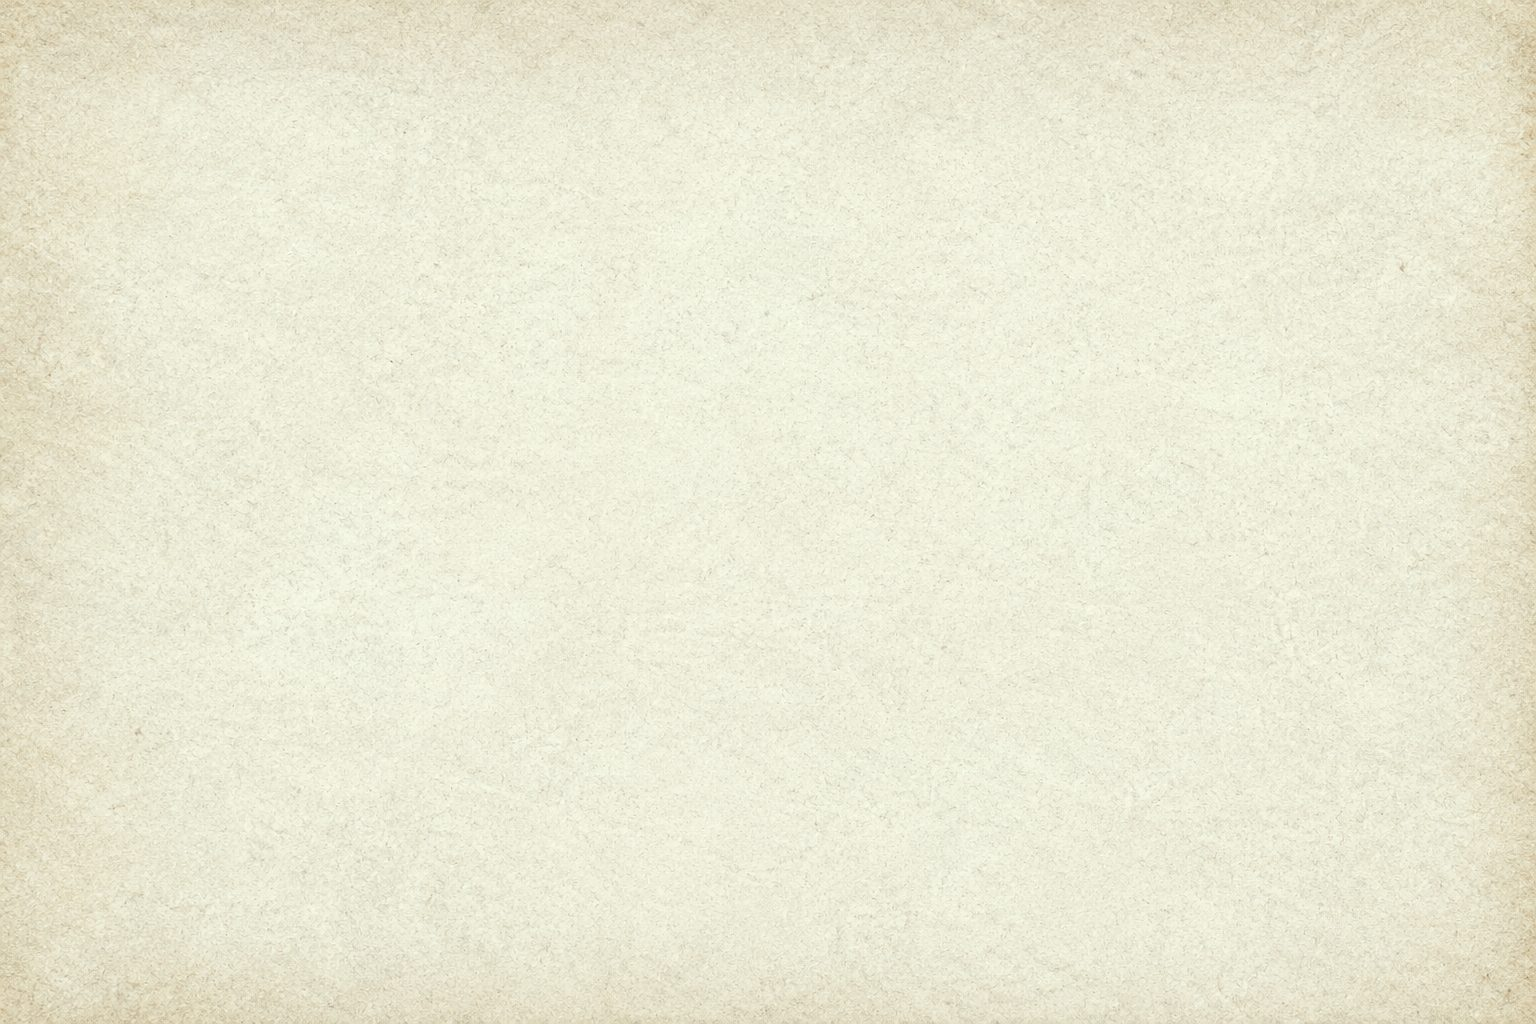
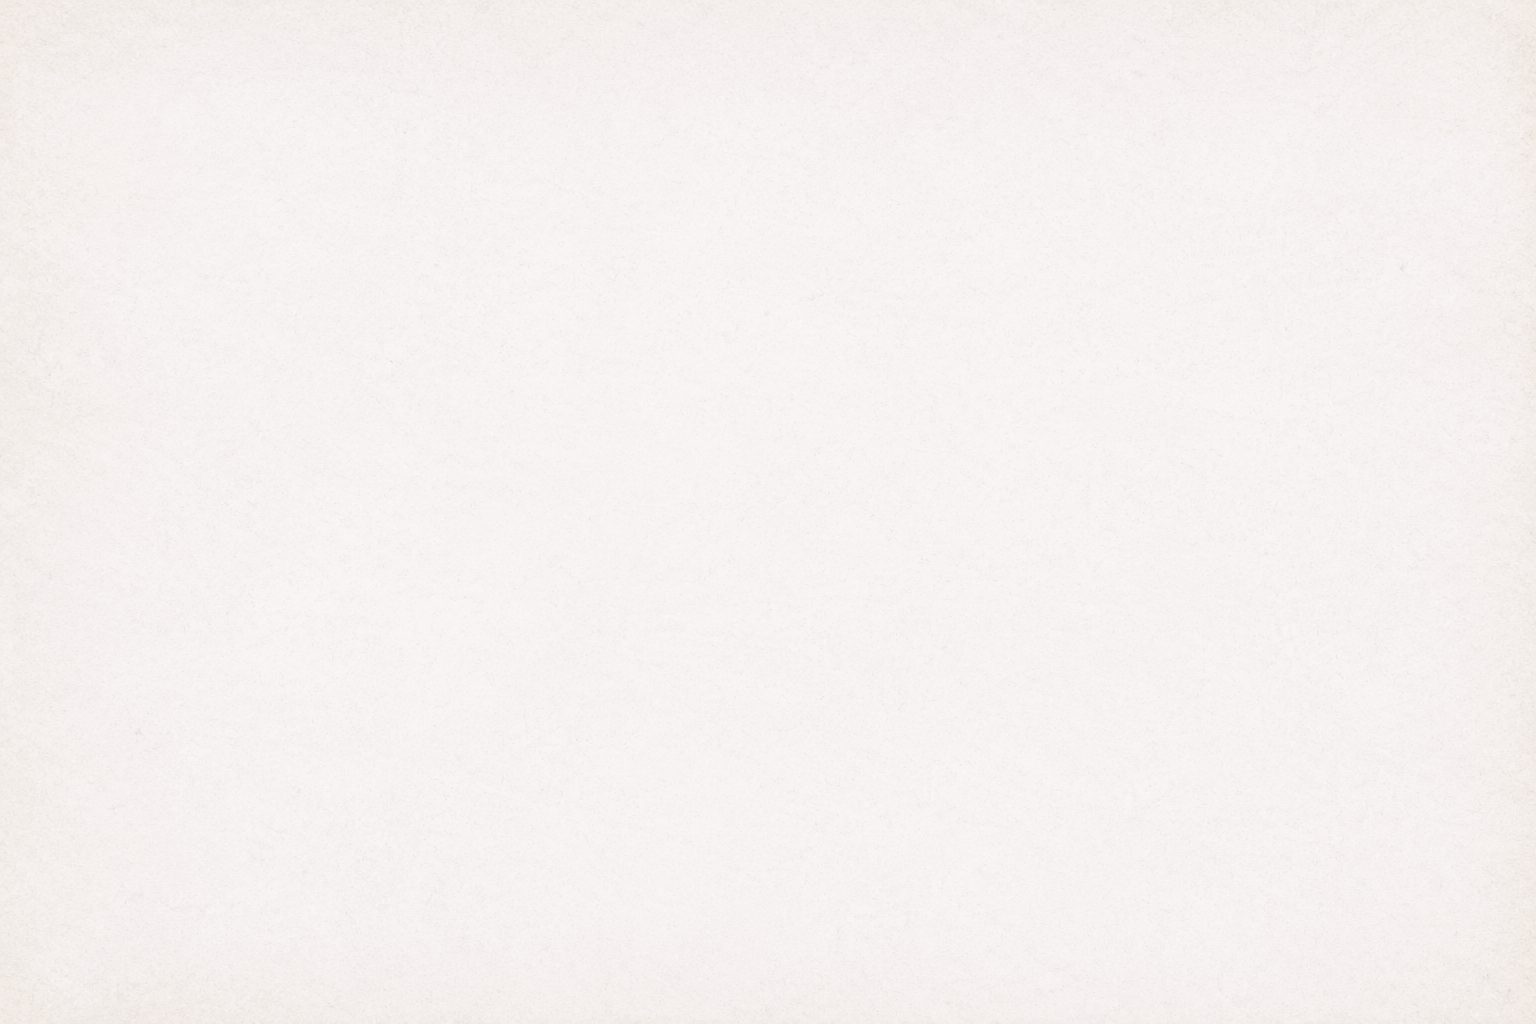
faded
more white

diff --git a/jeffrey-river/css/styles.css b/jeffrey-river/css/styles.css
@@ -21,10 +21,10 @@
   --heading:      #3A302A;   /* Aged leather — same as bark/leather */
 
   /* Backgrounds — clean and crisp */
-  --paper:        #FBFBFA;   /* Main bg — near-white, clean */
+  --paper:        #F6F3F1;   /* Main bg — warm off-white matching parchment */
   --white:        #FFFFFF;
-  --parchment:    #F5F4F2;   /* Subtle off-white for alternating sections */
-  --card-bg:      #FFFFFF;   /* Card backgrounds — true white */
+  --parchment:    #F2EFED;   /* Subtle warm white for sections */
+  --card-bg:      #F8F6F5;   /* Card backgrounds — warm white */
   --charcoal:     #2E2E2A;
   --ash:          #8A8F8C;
 
@@ -235,7 +235,7 @@ p { margin: 0 0 1em; }
   position: sticky;
   top: 0;
   z-index: 50;
-  background: rgba(248, 247, 244, 0.85);
+  background: rgba(245, 242, 240, 0.92);
   backdrop-filter: blur(18px);
   -webkit-backdrop-filter: blur(18px);
   border-bottom: 1px solid rgba(0,0,0,0.06);
@@ -344,7 +344,7 @@ p { margin: 0 0 1em; }
     top: 100%;
     left: 0;
     right: 0;
-    background: rgba(248, 247, 244, 0.95);
+    background: rgba(245, 242, 240, 0.95);
     backdrop-filter: blur(14px);
     -webkit-backdrop-filter: blur(14px);
     flex-direction: row;
@@ -652,7 +652,7 @@ p { margin: 0 0 1em; }
   grid-template-columns: repeat(auto-fit, minmax(280px, 1fr));
 }
 .card {
-  background: rgba(255, 255, 255, 0.85);
+  background: rgba(246, 243, 241, 0.88);
   border: 1px solid rgba(0,0,0,0.08);
   border-left: 4px solid var(--sage);
   border-radius: var(--radius-lg);
@@ -676,7 +676,7 @@ p { margin: 0 0 1em; }
 
 /* ---------- Music Player ---------- */
 .player {
-  background: rgba(255, 255, 255, 0.85);
+  background: rgba(246, 243, 241, 0.88);
   border: 1px solid rgba(0,0,0,0.06);
   border-left: 4px solid var(--river);
   border-radius: var(--radius-lg);
@@ -801,7 +801,7 @@ p { margin: 0 0 1em; }
 
 /* ---------- Email signup ---------- */
 .signup {
-  background: rgba(255, 255, 255, 0.85);
+  background: rgba(246, 243, 241, 0.88);
   border: 1px solid rgba(0,0,0,0.06);
   border-radius: var(--radius-lg);
   padding: clamp(2rem, 5vw, 3rem);
@@ -948,7 +948,7 @@ p { margin: 0 0 1em; }
 .gigs--empty {
   text-align: center;
   padding: 3rem 1rem;
-  background: rgba(255, 255, 255, 0.5);
+  background: rgba(246, 243, 241, 0.6);
   border-radius: var(--radius-lg);
   color: var(--ash);
 }
@@ -967,7 +967,7 @@ p { margin: 0 0 1em; }
   grid-template-columns: repeat(auto-fill, minmax(240px, 1fr));
 }
 .merch-item {
-  background: rgba(255, 255, 255, 0.85);
+  background: rgba(246, 243, 241, 0.88);
   border-radius: var(--radius-lg);
   overflow: hidden;
   border: 1px solid rgba(0,0,0,0.06);
@@ -1002,7 +1002,7 @@ p { margin: 0 0 1em; }
 
 /* ---------- Press / EPK ---------- */
 .epk {
-  background: rgba(255, 255, 255, 0.5);
+  background: rgba(246, 243, 241, 0.6);
   border-radius: var(--radius-lg);
   padding: clamp(2rem, 5vw, 3rem);
 }
